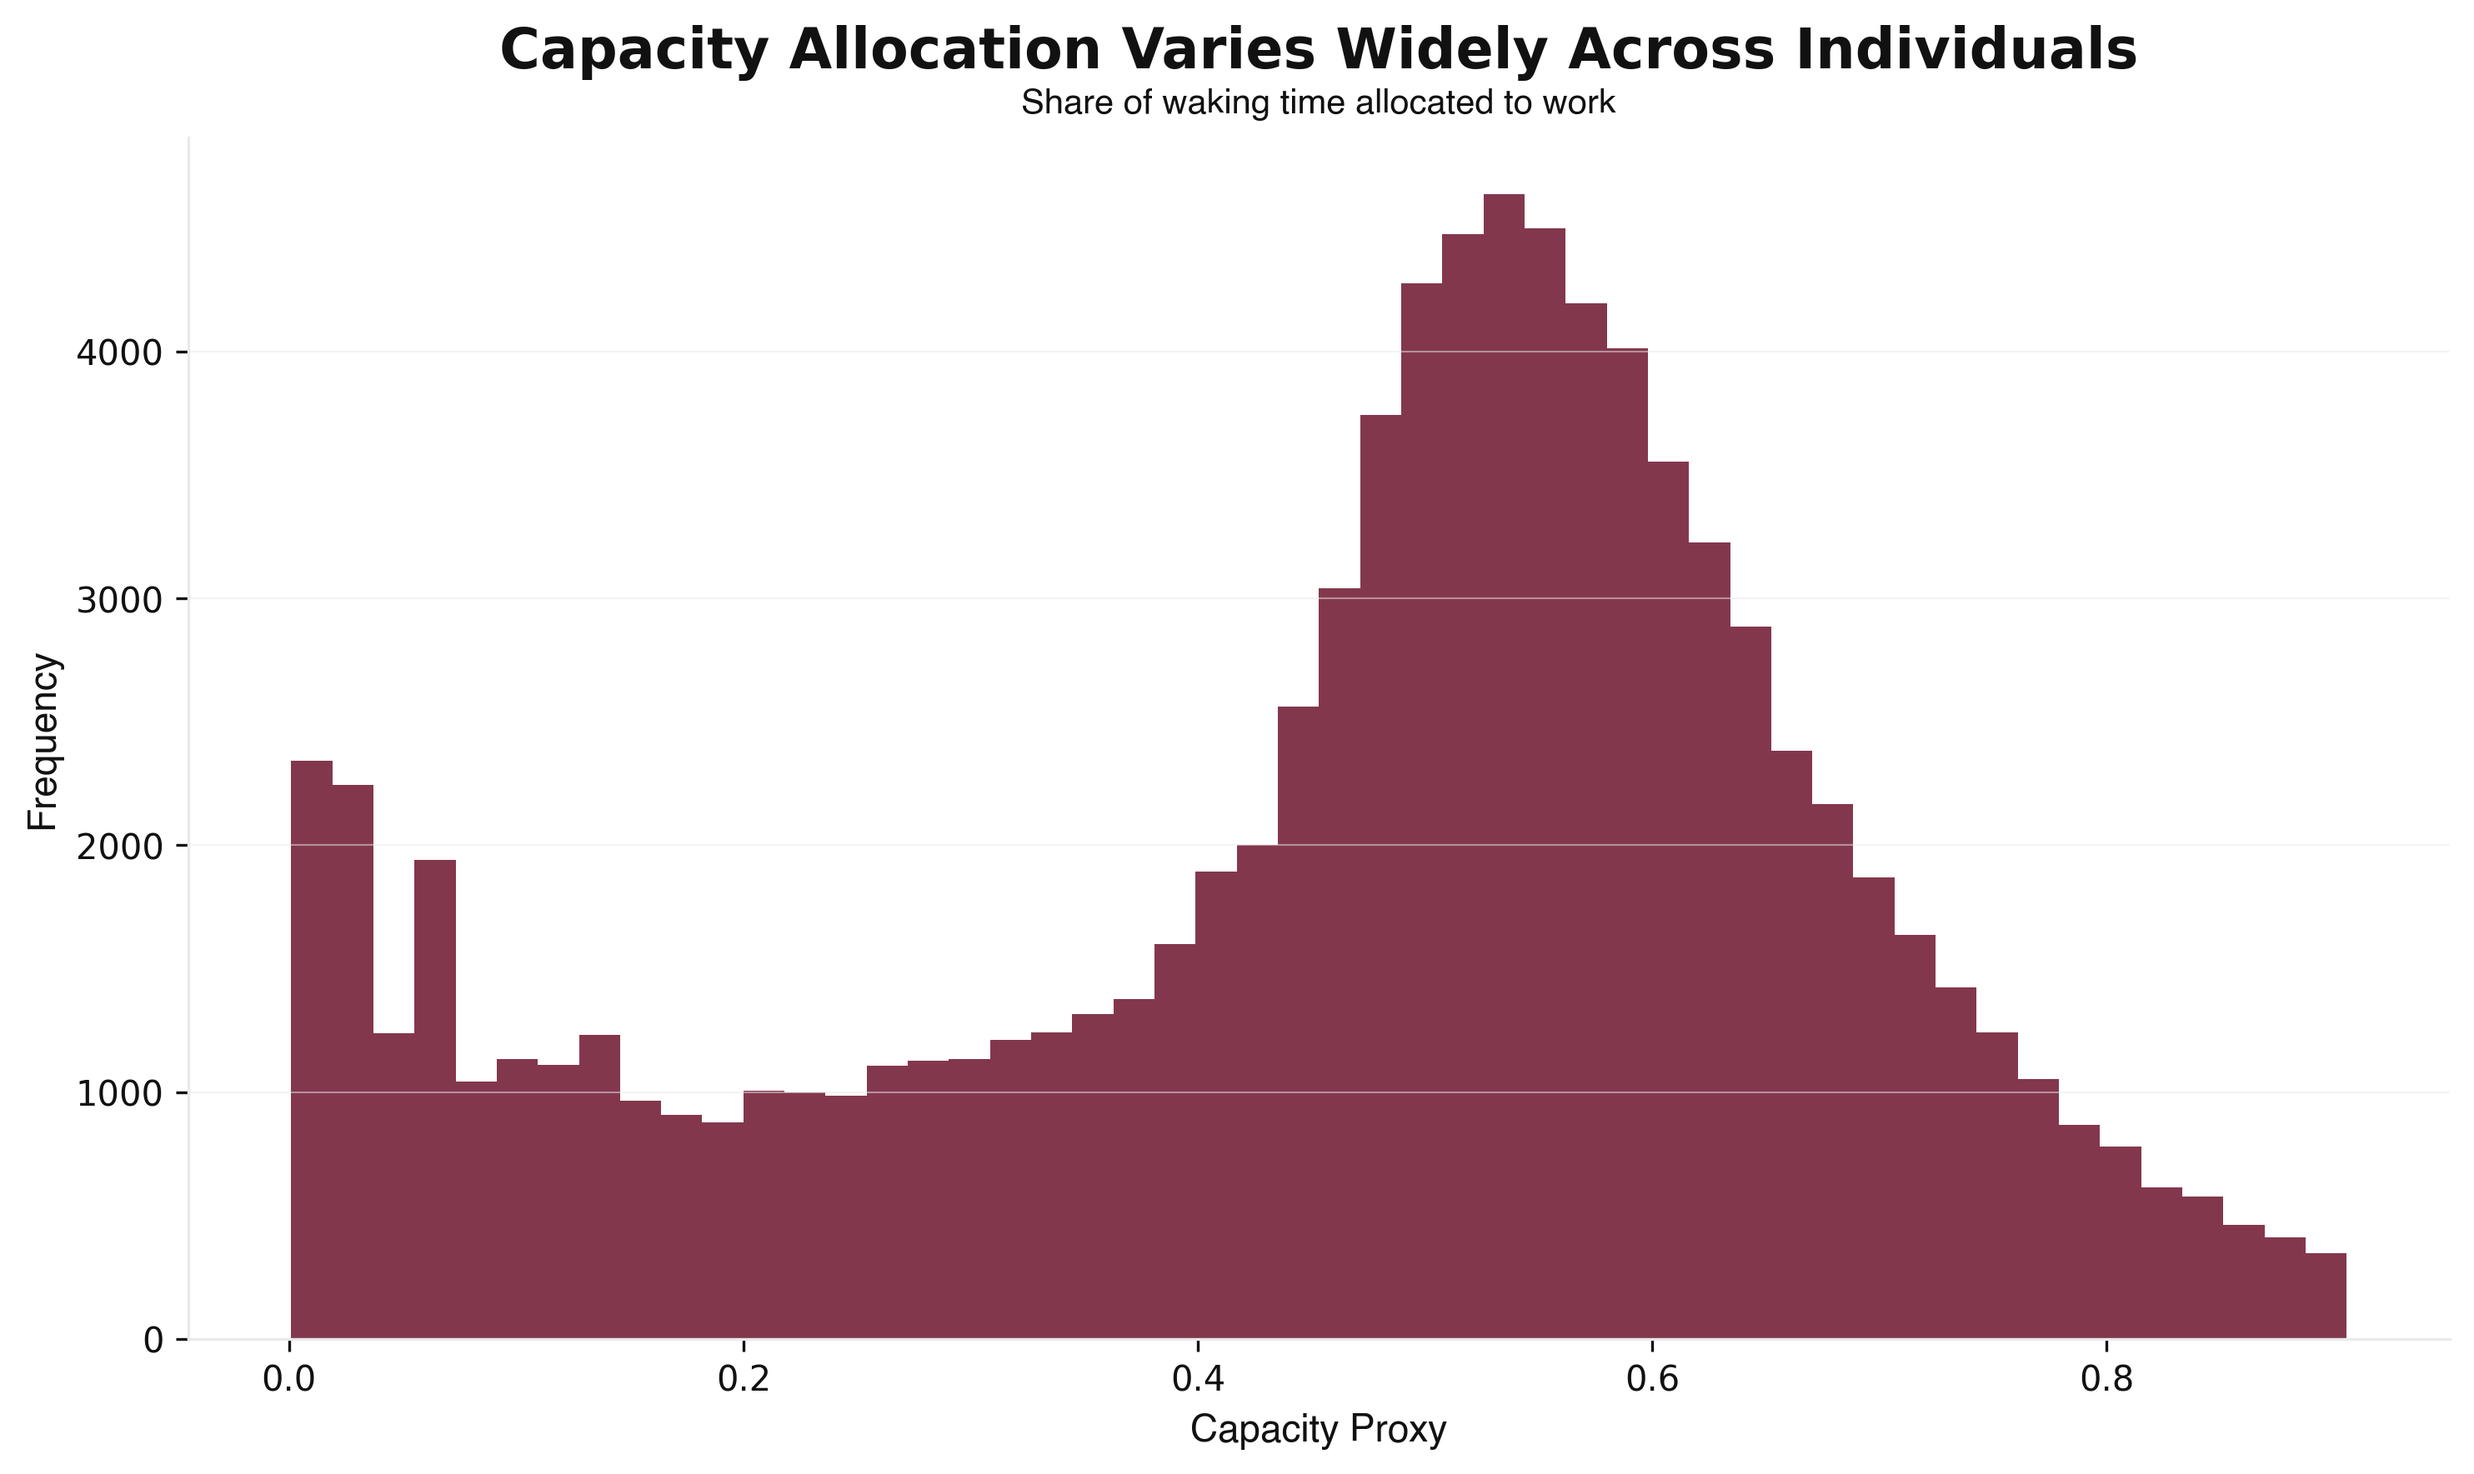
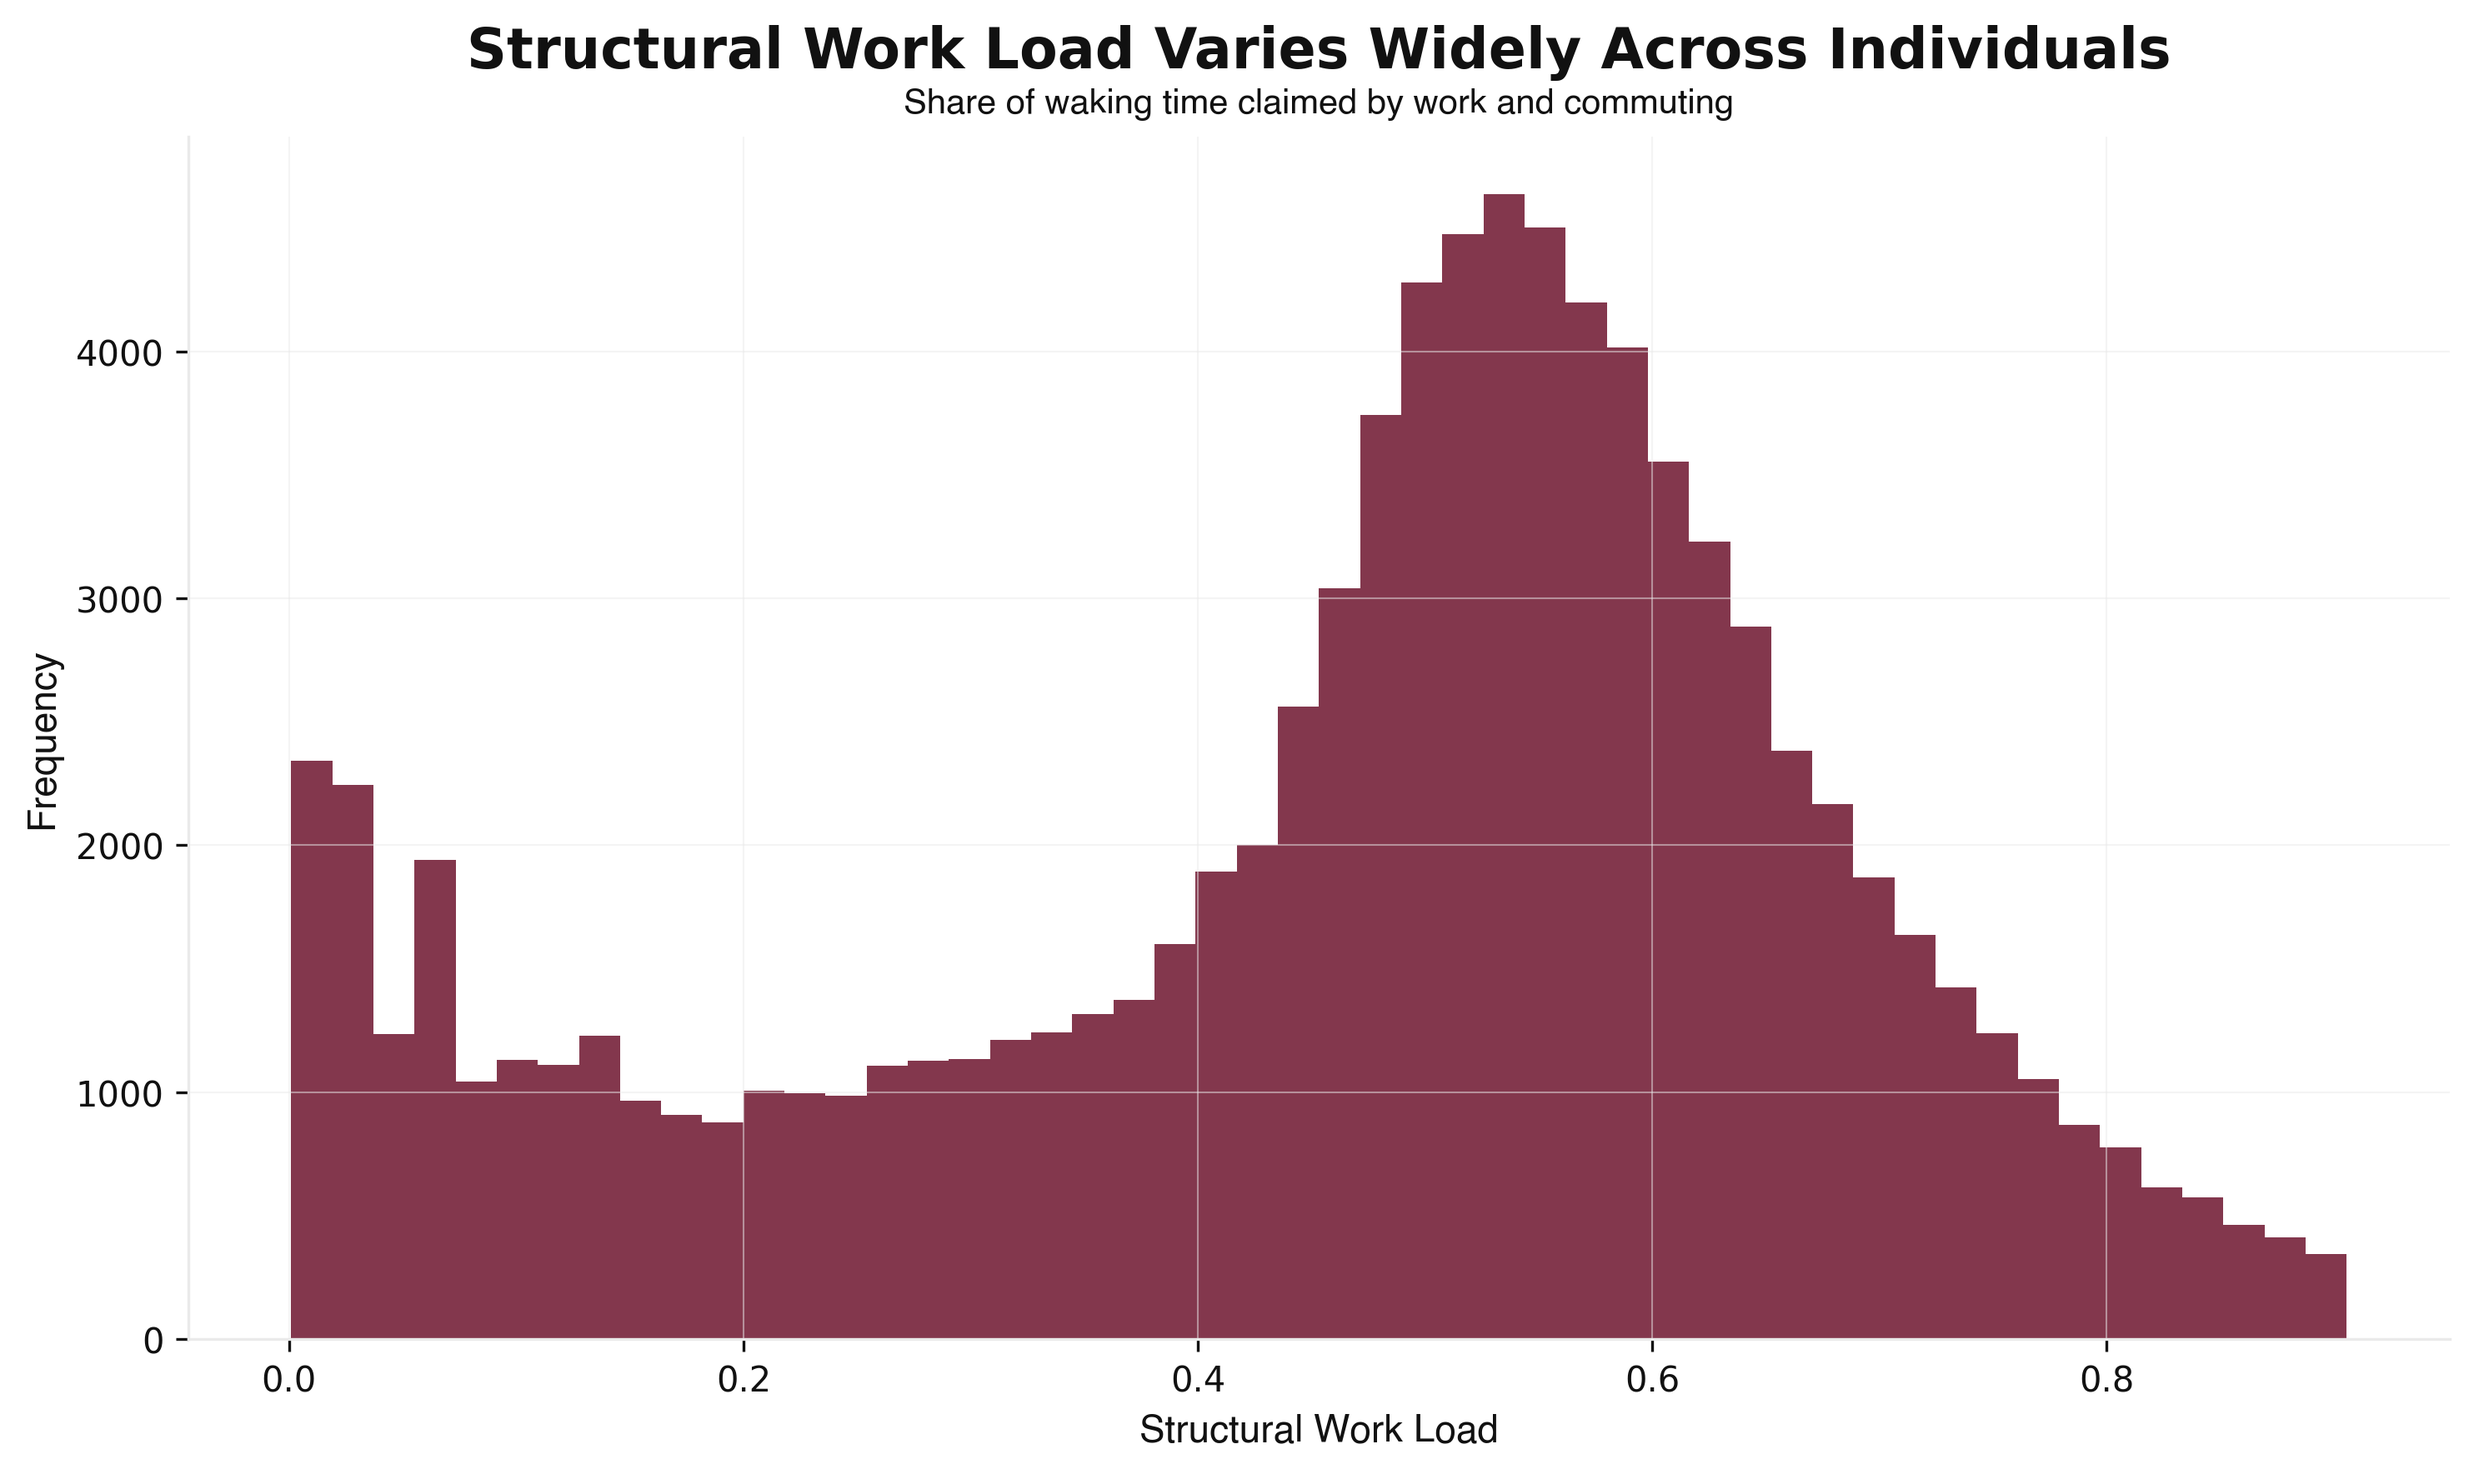
Rewrite visualizations to show the SWL R-squared collapse

Changed region(s): [[0.186, 0.0, 0.8679, 0.0933], [0.465, 0.9638, 0.6199, 0.9949], [0.031, 0.2176, 0.062, 0.2487]]

diff --git a/scripts/create_visualizations.py b/scripts/create_visualizations.py
@@ -14,98 +14,119 @@ COLOR_PRIMARY = '#640520'
 COLOR_TEXT = '#111111'
 COLOR_SECONDARY = '#EAEAEA'
 
+
+def style_axis(ax):
+    """Apply the shared styling to an axis."""
+    ax.spines['top'].set_visible(False)
+    ax.spines['right'].set_visible(False)
+    ax.spines['left'].set_color(COLOR_SECONDARY)
+    ax.spines['bottom'].set_color(COLOR_SECONDARY)
+    ax.tick_params(colors=COLOR_TEXT, labelsize=10)
+    ax.grid(True, color=COLOR_SECONDARY, alpha=0.5, linewidth=0.5)
+
+
+def r_squared(x, y):
+    """R-squared from a simple OLS of y on x."""
+    X = sm.add_constant(x)
+    return sm.OLS(y, X).fit().rsquared
+
+
 # Load data
 df = pd.read_csv('data/cleaned/capacity_model_dataset.csv')
 
 # ============================================================
-# CHART 1: SLEEP VS WORK SCATTER
+# CHART 1: THE COLLAPSE — RAW WORK HOURS vs STRUCTURAL WORK LOAD
+# Two panels sharing a sleep x-axis. The whole point of the study
+# is the gap between these two R-squared values.
 # ============================================================
-fig, ax = plt.subplots(figsize=(10, 6), facecolor=COLOR_BG)
-ax.set_facecolor(COLOR_BG)
+r2_hours = r_squared(df['sleep_hours'], df['work_hours'])
+r2_swl = r_squared(df['sleep_hours'], df['capacity_proxy'])
 
-# Scatter with transparency
-ax.scatter(df['sleep_hours'], df['work_hours'], 
-           color=COLOR_PRIMARY, alpha=0.3, s=20, edgecolors='none')
+fig, (ax_left, ax_right) = plt.subplots(
+    1, 2, figsize=(14, 6), facecolor=COLOR_BG
+)
 
-# Add trend line
+# --- LEFT PANEL: sleep vs raw work hours ---
+ax_left.set_facecolor(COLOR_BG)
+ax_left.scatter(df['sleep_hours'], df['work_hours'],
+                color=COLOR_PRIMARY, alpha=0.3, s=20, edgecolors='none')
 z = np.polyfit(df['sleep_hours'], df['work_hours'], 1)
 p = np.poly1d(z)
-ax.plot(df['sleep_hours'], p(df['sleep_hours']), 
-        color=COLOR_PRIMARY, alpha=0.8, linewidth=2)
+sleep_sorted = np.sort(df['sleep_hours'])
+ax_left.plot(sleep_sorted, p(sleep_sorted),
+             color=COLOR_PRIMARY, alpha=0.9, linewidth=2)
+style_axis(ax_left)
+ax_left.set_xlabel('Sleep Hours', color=COLOR_TEXT, fontsize=11, fontname='Helvetica')
+ax_left.set_ylabel('Daily Work Hours', color=COLOR_TEXT, fontsize=11, fontname='Helvetica')
+ax_left.set_title('Raw Work Hours', color=COLOR_TEXT, fontsize=13,
+                  fontweight='bold', fontname='Playfair Display', pad=10)
+ax_left.text(0.95, 0.95, f'R² = {r2_hours:.3f}',
+             transform=ax_left.transAxes, ha='right', va='top',
+             color=COLOR_TEXT, fontsize=11, fontname='Helvetica', alpha=0.8)
 
-# Styling
-ax.spines['top'].set_visible(False)
-ax.spines['right'].set_visible(False)
-ax.spines['left'].set_color(COLOR_SECONDARY)
-ax.spines['bottom'].set_color(COLOR_SECONDARY)
-ax.tick_params(colors=COLOR_TEXT, labelsize=10)
-ax.grid(True, color=COLOR_SECONDARY, alpha=0.5, linewidth=0.5)
+# --- RIGHT PANEL: sleep vs Structural Work Load ---
+ax_right.set_facecolor(COLOR_BG)
+ax_right.scatter(df['sleep_hours'], df['capacity_proxy'],
+                 color=COLOR_PRIMARY, alpha=0.3, s=20, edgecolors='none')
+z2 = np.polyfit(df['sleep_hours'], df['capacity_proxy'], 1)
+p2 = np.poly1d(z2)
+ax_right.plot(sleep_sorted, p2(sleep_sorted),
+              color=COLOR_PRIMARY, alpha=0.9, linewidth=2)
+style_axis(ax_right)
+ax_right.set_xlabel('Sleep Hours', color=COLOR_TEXT, fontsize=11, fontname='Helvetica')
+ax_right.set_ylabel('Structural Work Load\n(work + commute) / waking hours',
+                    color=COLOR_TEXT, fontsize=11, fontname='Helvetica')
+ax_right.set_title('Structural Work Load', color=COLOR_TEXT, fontsize=13,
+                   fontweight='bold', fontname='Playfair Display', pad=10)
+ax_right.text(0.95, 0.95, f'R² = {r2_swl:.3f}',
+              transform=ax_right.transAxes, ha='right', va='top',
+              color=COLOR_TEXT, fontsize=11, fontname='Helvetica', alpha=0.8)
 
-# Labels and title
-ax.set_xlabel('Sleep Hours', color=COLOR_TEXT, fontsize=11, fontname='Helvetica')
-ax.set_ylabel('Work Hours', color=COLOR_TEXT, fontsize=11, fontname='Helvetica')
-ax.set_title('Sleep Has a Limited Relationship with Work Allocation', 
-             color=COLOR_TEXT, fontsize=16, fontweight='bold', 
-             fontname='Playfair Display', pad=20)
-
-# Subtitle
-ax.text(0.5, 1.02, 'Daily time-use data (ATUS)', 
-        transform=ax.transAxes, ha='center', color=COLOR_TEXT, 
-        fontsize=10, fontname='Helvetica')
-
-# Annotation
-ax.text(0.95, 0.05, 'R² ≈ 0.11', 
-        transform=ax.transAxes, ha='right', color=COLOR_TEXT, 
-        fontsize=10, fontname='Helvetica', alpha=0.7)
+# Shared title + subtitle
+fig.suptitle("Sleep's Explanatory Power Collapses for Structural Work Load",
+             color=COLOR_TEXT, fontsize=17, fontweight='bold',
+             fontname='Playfair Display', y=1.02)
+fig.text(0.5, 0.965, 'Sleep predicts raw work hours, but almost none of how much '
+         'of the waking day is claimed by work and commuting',
+         ha='center', color=COLOR_TEXT, fontsize=10, fontname='Helvetica')
 
 plt.tight_layout()
-plt.savefig('outputs/figures/sleep_vs_work.png', dpi=300, 
+plt.savefig('outputs/figures/sleep_vs_work.png', dpi=300,
             facecolor=COLOR_BG, edgecolor='none', bbox_inches='tight')
 plt.close()
-
 print("Saved: outputs/figures/sleep_vs_work.png")
 
 # ============================================================
-# CHART 2: CAPACITY DISTRIBUTION HISTOGRAM
+# CHART 2: STRUCTURAL WORK LOAD DISTRIBUTION
 # ============================================================
 fig, ax = plt.subplots(figsize=(10, 6), facecolor=COLOR_BG)
 ax.set_facecolor(COLOR_BG)
 
-# Histogram
-ax.hist(df['capacity_proxy'], bins=50, color=COLOR_PRIMARY, 
+ax.hist(df['capacity_proxy'], bins=50, color=COLOR_PRIMARY,
         alpha=0.8, edgecolor='none')
 
-# Styling
-ax.spines['top'].set_visible(False)
-ax.spines['right'].set_visible(False)
-ax.spines['left'].set_color(COLOR_SECONDARY)
-ax.spines['bottom'].set_color(COLOR_SECONDARY)
-ax.tick_params(colors=COLOR_TEXT, labelsize=10)
+style_axis(ax)
 ax.grid(True, color=COLOR_SECONDARY, alpha=0.5, linewidth=0.5, axis='y')
 
-# Labels and title
-ax.set_xlabel('Capacity Proxy', color=COLOR_TEXT, fontsize=11, fontname='Helvetica')
+ax.set_xlabel('Structural Work Load', color=COLOR_TEXT, fontsize=11, fontname='Helvetica')
 ax.set_ylabel('Frequency', color=COLOR_TEXT, fontsize=11, fontname='Helvetica')
-ax.set_title('Capacity Allocation Varies Widely Across Individuals', 
-             color=COLOR_TEXT, fontsize=16, fontweight='bold', 
+ax.set_title('Structural Work Load Varies Widely Across Individuals',
+             color=COLOR_TEXT, fontsize=16, fontweight='bold',
              fontname='Playfair Display', pad=20)
 
-# Subtitle
-ax.text(0.5, 1.02, 'Share of waking time allocated to work', 
-        transform=ax.transAxes, ha='center', color=COLOR_TEXT, 
+ax.text(0.5, 1.02, 'Share of waking time claimed by work and commuting',
+        transform=ax.transAxes, ha='center', color=COLOR_TEXT,
         fontsize=10, fontname='Helvetica')
 
 plt.tight_layout()
-plt.savefig('outputs/figures/capacity_distribution.png', dpi=300, 
+plt.savefig('outputs/figures/capacity_distribution.png', dpi=300,
             facecolor=COLOR_BG, edgecolor='none', bbox_inches='tight')
 plt.close()
-
 print("Saved: outputs/figures/capacity_distribution.png")
 
 # ============================================================
-# CHART 3: PREDICTED VS ACTUAL (OPTIONAL)
+# CHART 3: PREDICTED VS ACTUAL (raw work-hours model from sleep)
 # ============================================================
-# Fit simple model to get predictions
 X = df['sleep_hours']
 X = sm.add_constant(X)
 model = sm.OLS(df['work_hours'], X).fit()
@@ -114,40 +135,31 @@ df['predicted_work_hours'] = model.predict(X)
 fig, ax = plt.subplots(figsize=(10, 6), facecolor=COLOR_BG)
 ax.set_facecolor(COLOR_BG)
 
-# Scatter with transparency
-ax.scatter(df['predicted_work_hours'], df['work_hours'], 
+ax.scatter(df['predicted_work_hours'], df['work_hours'],
            color=COLOR_PRIMARY, alpha=0.3, s=20, edgecolors='none')
 
-# Add diagonal reference line
 max_val = max(df['predicted_work_hours'].max(), df['work_hours'].max())
-ax.plot([0, max_val], [0, max_val], 
+ax.plot([0, max_val], [0, max_val],
         color=COLOR_SECONDARY, alpha=0.8, linewidth=2, linestyle='--')
 
-# Styling
-ax.spines['top'].set_visible(False)
-ax.spines['right'].set_visible(False)
-ax.spines['left'].set_color(COLOR_SECONDARY)
-ax.spines['bottom'].set_color(COLOR_SECONDARY)
-ax.tick_params(colors=COLOR_TEXT, labelsize=10)
-ax.grid(True, color=COLOR_SECONDARY, alpha=0.5, linewidth=0.5)
+style_axis(ax)
 
-# Labels and title
 ax.set_xlabel('Predicted Work Hours', color=COLOR_TEXT, fontsize=11, fontname='Helvetica')
 ax.set_ylabel('Actual Work Hours', color=COLOR_TEXT, fontsize=11, fontname='Helvetica')
-ax.set_title('Sleep Explains Only a Small Portion of Work Behavior', 
-             color=COLOR_TEXT, fontsize=16, fontweight='bold', 
+ax.set_title('Sleep Explains Only a Small Portion of Daily Work Hours',
+             color=COLOR_TEXT, fontsize=16, fontweight='bold',
              fontname='Playfair Display', pad=20)
 
-# Subtitle
-ax.text(0.5, 1.02, 'Model fit remains weak despite statistical significance', 
-        transform=ax.transAxes, ha='center', color=COLOR_TEXT, 
+ax.text(0.5, 1.02, f'Sleep-only model of raw work hours (R² = {model.rsquared:.3f})',
+        transform=ax.transAxes, ha='center', color=COLOR_TEXT,
         fontsize=10, fontname='Helvetica')
 
 plt.tight_layout()
-plt.savefig('outputs/figures/model_fit.png', dpi=300, 
+plt.savefig('outputs/figures/model_fit.png', dpi=300,
             facecolor=COLOR_BG, edgecolor='none', bbox_inches='tight')
 plt.close()
-
 print("Saved: outputs/figures/model_fit.png")
 
 print("\nAll visualizations saved successfully.")
+print(f"  Raw work hours ~ sleep:        R² = {r2_hours:.4f}")
+print(f"  Structural Work Load ~ sleep:  R² = {r2_swl:.4f}")
